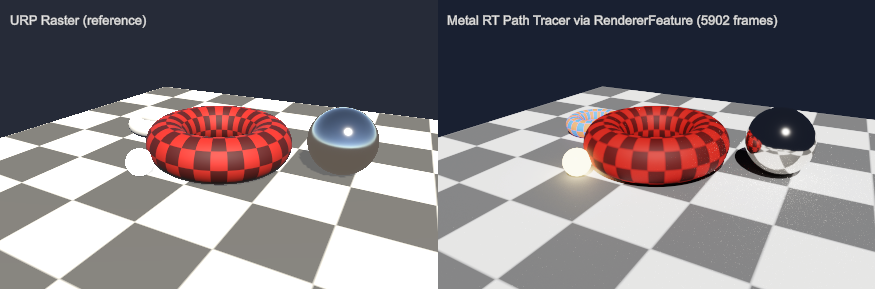
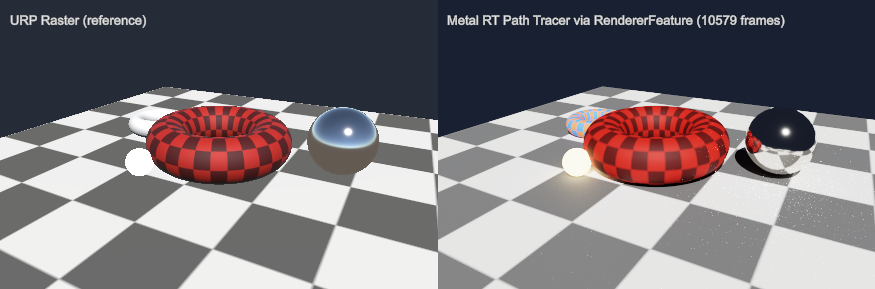
Add a-trous denoiser for early accumulation
The resolve stage now demodulates the accumulated mean by the
primary-hit albedo, runs an edge-avoiding a-trous wavelet filter
(3 iterations, guided by primary-hit albedo and normal from a new
G-buffer written at bounce 0) while fewer than 64 frames have
accumulated, and remodulates on output. Converged frames and the
analytic linear-output test modes bypass the filter, so all T1-T9
checks are unaffected while early interactive frames render nearly
noise-free.

diff --git a/NativePlugin/MetalRTPlugin.mm b/NativePlugin/MetalRTPlugin.mm
@@ -49,6 +49,8 @@ id<MTLComputePipelineState> s_IntersectPipeline;
 id<MTLComputePipelineState> s_GeomPrepPipeline;
 id<MTLComputePipelineState> s_ShadePipeline;
 id<MTLComputePipelineState> s_ResolvePipeline;
+id<MTLComputePipelineState> s_AtrousPipeline;
+id<MTLComputePipelineState> s_OutputPipeline;
 id<MTLComputePipelineState> s_ProbePipeline;
 
 struct MeshEntry
@@ -77,7 +79,14 @@ id<MTLBuffer> s_SharedSurfaces;
 // Native-only per-frame resources (render thread)
 id<MTLBuffer> s_PathBuffer;
 id<MTLBuffer> s_AccumBuffer;
+id<MTLBuffer> s_GBuffer;   // primary hit albedo + normal (denoiser guides)
+id<MTLBuffer> s_DenoiseA;  // irradiance ping-pong buffers
+id<MTLBuffer> s_DenoiseB;
 uint32_t s_BufferWidth, s_BufferHeight;
+uint32_t s_AccumFrames; // frames since the last accumulation reset
+
+constexpr uint32_t kDenoiseFrameLimit = 64; // stop filtering once converged
+constexpr int kDenoiseIterations = 3;
 
 // Per-frame state carried across the phase events of one frame
 // (render thread only).
@@ -758,6 +767,7 @@ kernel void Shade
    constant uint& bounce [[buffer(5)]],
    constant InstanceInfo* instances [[buffer(6)]],
    constant GpuMaterial* materials [[buffer(7)]],
+   device float4* gbuffer [[buffer(8)]],
    uint2 id [[thread_position_in_grid]])
 {
     if (id.x >= frame.cam.width || id.y >= frame.cam.height) return;
@@ -769,6 +779,11 @@ kernel void Shade
     HitAttributes attr = attributes[idx];
     if (attr.meta.y == 0)
     {
+        if (bounce == 0) // denoiser guides: environment pixel
+        {
+            gbuffer[idx * 2] = float4(1, 1, 1, 1);
+            gbuffer[idx * 2 + 1] = float4(0);
+        }
         path.radiance.xyz += path.throughput.xyz * frame.envColor.xyz;
         path.radiance.w = 0;
         paths[idx] = path;
@@ -779,16 +794,27 @@ kernel void Shade
     float3 position = attr.position.xyz;
 
     // Alpha clipped hit: pass through (continue the ray past the surface;
-    // this consumes one bounce iteration). Shadow rays still treat clipped
-    // geometry as opaque (documented limitation).
+    // this consumes one bounce iteration). Shadow rays evaluate the alpha
+    // of native Lit materials; compute-evaluated clipping stays opaque.
     if (surf.params.w >= 0 && surf.params.z < surf.params.w)
     {
+        if (bounce == 0)
+        {
+            gbuffer[idx * 2] = float4(1, 1, 1, 1);
+            gbuffer[idx * 2 + 1] = float4(0);
+        }
         path.origin.xyz = position + path.direction.xyz * kRayEpsilon;
         paths[idx] = path;
         return;
     }
 
     float3 normal = normalize(surf.normal.xyz);
+
+    if (bounce == 0) // denoiser guides: primary hit albedo and normal
+    {
+        gbuffer[idx * 2] = float4(surf.baseColor.xyz, 1);
+        gbuffer[idx * 2 + 1] = float4(normal, 0);
+    }
 
     uint rng = as_type<uint>(path.throughput.w);
     float3 wo = -path.direction.xyz;
@@ -873,11 +899,14 @@ static float3 TonemapAces(float3 x)
     return saturate(x * (2.51 * x + 0.03) / (x * (2.43 * x + 0.59) + 0.14));
 }
 
+// Accumulates the frame and writes the albedo-demodulated irradiance mean
+// (the denoiser filters irradiance so texture detail is preserved).
 kernel void Resolve
   (device const PathState* paths [[buffer(0)]],
    device float4* accum [[buffer(1)]],
    constant FrameConstants& frame [[buffer(2)]],
-   texture2d<float, access::write> output [[texture(0)]],
+   device const float4* gbuffer [[buffer(3)]],
+   device float4* irradiance [[buffer(4)]],
    uint2 id [[thread_position_in_grid]])
 {
     if (id.x >= frame.cam.width || id.y >= frame.cam.height) return;
@@ -888,8 +917,72 @@ kernel void Resolve
     acc.w += 1;
     accum[idx] = acc;
 
+    float3 mean = acc.xyz / acc.w;
+    float3 albedo = max(gbuffer[idx * 2].xyz, 0.05);
+    irradiance[idx] = float4(mean / albedo, 1);
+}
+
+// Edge-avoiding a-trous wavelet filter step over the irradiance buffer,
+// guided by the primary hit albedo and normal.
+kernel void Atrous
+  (device const float4* source [[buffer(0)]],
+   device float4* destination [[buffer(1)]],
+   device const float4* gbuffer [[buffer(2)]],
+   constant FrameConstants& frame [[buffer(3)]],
+   constant uint& step [[buffer(4)]],
+   uint2 id [[thread_position_in_grid]])
+{
+    uint w = frame.cam.width, h = frame.cam.height;
+    if (id.x >= w || id.y >= h) return;
+    uint idx = id.y * w + id.x;
+
+    constexpr float taps[5] = { 1.0 / 16, 1.0 / 4, 3.0 / 8, 1.0 / 4,
+                                1.0 / 16 };
+
+    float3 albedo = gbuffer[idx * 2].xyz;
+    float3 normal = gbuffer[idx * 2 + 1].xyz;
+    float3 center = source[idx].xyz;
+
+    float3 sum = 0;
+    float weightSum = 0;
+    for (int dy = -2; dy <= 2; dy++)
+    for (int dx = -2; dx <= 2; dx++)
+    {
+        int2 q = clamp(int2(id) + int2(dx, dy) * (int)step,
+                       int2(0), int2(w - 1, h - 1));
+        uint qi = q.y * w + q.x;
+        float weight = taps[dx + 2] * taps[dy + 2];
+        if (dx != 0 || dy != 0)
+        {
+            float3 qn = gbuffer[qi * 2 + 1].xyz;
+            float3 da = gbuffer[qi * 2].xyz - albedo;
+            float3 dc = source[qi].xyz - center;
+            weight *= pow(max(dot(normal, qn), 0.0), 32.0);
+            weight *= exp(-dot(da, da) / 0.02);
+            weight *= exp(-dot(dc, dc) / 0.25);
+        }
+        sum += source[qi].xyz * weight;
+        weightSum += weight;
+    }
+    destination[idx] = float4(sum / max(weightSum, 1e-6), 1);
+}
+
+// Remodulates the (possibly filtered) irradiance with the albedo and
+// writes the display value into the output texture.
+kernel void Output
+  (device const float4* irradiance [[buffer(0)]],
+   device const float4* gbuffer [[buffer(1)]],
+   constant FrameConstants& frame [[buffer(2)]],
+   texture2d<float, access::write> output [[texture(0)]],
+   uint2 id [[thread_position_in_grid]])
+{
+    if (id.x >= frame.cam.width || id.y >= frame.cam.height) return;
+    uint idx = id.y * frame.cam.width + id.x;
+
+    float3 albedo = max(gbuffer[idx * 2].xyz, 0.05);
+    float3 color = irradiance[idx].xyz * albedo;
+
     // Output stays linear; Unity's sRGB conversion happens at display time.
-    float3 color = acc.xyz / acc.w;
     if (frame.linearOutput == 0)
         color = TonemapAces(color * frame.exposure);
     output.write(float4(color, 1), id);
@@ -993,10 +1086,13 @@ bool EnsurePipelines()
     s_GeomPrepPipeline = CreatePipeline(library, @"GeomPrep");
     s_ShadePipeline = CreatePipeline(library, @"Shade");
     s_ResolvePipeline = CreatePipeline(library, @"Resolve");
+    s_AtrousPipeline = CreatePipeline(library, @"Atrous");
+    s_OutputPipeline = CreatePipeline(library, @"Output");
     s_ProbePipeline = CreatePipeline(library, @"TraceProbes");
     return s_ClearPipeline != nil && s_RayGenPipeline != nil &&
            s_IntersectPipeline != nil && s_GeomPrepPipeline != nil &&
            s_ShadePipeline != nil && s_ResolvePipeline != nil &&
+           s_AtrousPipeline != nil && s_OutputPipeline != nil &&
            s_ProbePipeline != nil;
 }
 
@@ -1128,6 +1224,12 @@ void EnsurePathBuffers(uint32_t width, uint32_t height)
                                          options:MTLResourceStorageModePrivate];
     s_AccumBuffer = [s_Device newBufferWithLength:pixels * 16
                                           options:MTLResourceStorageModePrivate];
+    s_GBuffer = [s_Device newBufferWithLength:pixels * 32
+                                      options:MTLResourceStorageModePrivate];
+    s_DenoiseA = [s_Device newBufferWithLength:pixels * 16
+                                       options:MTLResourceStorageModePrivate];
+    s_DenoiseB = [s_Device newBufferWithLength:pixels * 16
+                                       options:MTLResourceStorageModePrivate];
     s_BufferWidth = width;
     s_BufferHeight = height;
 }
@@ -1225,6 +1327,7 @@ void UNITY_INTERFACE_API OnRenderEvent(int eventId, void* data)
 
         if (ev->reset != 0 || resized)
         {
+            s_AccumFrames = 0;
             [enc setComputePipelineState:s_ClearPipeline];
             [enc setBuffer:s_AccumBuffer offset:0 atIndex:0];
             [enc setBytes:&s_Frame length:sizeof(s_Frame) atIndex:1];
@@ -1291,6 +1394,7 @@ void UNITY_INTERFACE_API OnRenderEvent(int eventId, void* data)
         [enc setBytes:&bounce length:sizeof(bounce) atIndex:5];
         [enc setBuffer:s_FrameInfo offset:0 atIndex:6];
         [enc setBuffer:s_MaterialBuffer offset:0 atIndex:7];
+        [enc setBuffer:s_GBuffer offset:0 atIndex:8];
         [enc dispatchThreads:grid threadsPerThreadgroup:group];
         [enc endEncoding];
         [command commit];
@@ -1307,11 +1411,41 @@ void UNITY_INTERFACE_API OnRenderEvent(int eventId, void* data)
         [enc setBuffer:s_PathBuffer offset:0 atIndex:0];
         [enc setBuffer:s_AccumBuffer offset:0 atIndex:1];
         [enc setBytes:&s_Frame length:sizeof(s_Frame) atIndex:2];
+        [enc setBuffer:s_GBuffer offset:0 atIndex:3];
+        [enc setBuffer:s_DenoiseA offset:0 atIndex:4];
+        [enc dispatchThreads:grid threadsPerThreadgroup:group];
+        barrier(enc);
+
+        // Edge-avoiding a-trous denoising during early accumulation only;
+        // analytic (linear output) modes and converged frames pass through.
+        int iterations = (s_Frame.linearOutput == 0 &&
+                          s_AccumFrames < kDenoiseFrameLimit) ?
+          kDenoiseIterations : 0;
+        id<MTLBuffer> src = s_DenoiseA, dst = s_DenoiseB;
+        for (int i = 0; i < iterations; i++)
+        {
+            uint32_t step = 1u << i;
+            [enc setComputePipelineState:s_AtrousPipeline];
+            [enc setBuffer:src offset:0 atIndex:0];
+            [enc setBuffer:dst offset:0 atIndex:1];
+            [enc setBuffer:s_GBuffer offset:0 atIndex:2];
+            [enc setBytes:&s_Frame length:sizeof(s_Frame) atIndex:3];
+            [enc setBytes:&step length:sizeof(step) atIndex:4];
+            [enc dispatchThreads:grid threadsPerThreadgroup:group];
+            barrier(enc);
+            auto tmp = src; src = dst; dst = tmp;
+        }
+
+        [enc setComputePipelineState:s_OutputPipeline];
+        [enc setBuffer:src offset:0 atIndex:0];
+        [enc setBuffer:s_GBuffer offset:0 atIndex:1];
+        [enc setBytes:&s_Frame length:sizeof(s_Frame) atIndex:2];
         [enc setTexture:s_FrameTexture atIndex:0];
         [enc dispatchThreads:grid threadsPerThreadgroup:group];
         [enc endEncoding];
         [command commit];
 
+        s_AccumFrames++;
         s_EventFrames.fetch_add(1, std::memory_order_relaxed);
     }
 }
@@ -1537,10 +1671,14 @@ void UNITY_INTERFACE_EXPORT UNITY_INTERFACE_API MetalRT_Dispose()
     s_SharedSurfaces = nil;
     s_PathBuffer = nil;
     s_AccumBuffer = nil;
+    s_GBuffer = nil;
+    s_DenoiseA = nil;
+    s_DenoiseB = nil;
     s_FrameTlas = nil;
     s_FrameInfo = nil;
     s_FrameTexture = nil;
     s_BufferWidth = s_BufferHeight = 0;
+    s_AccumFrames = 0;
     s_EventFrames.store(0, std::memory_order_relaxed);
 }
 

diff --git a/README.md b/README.md
@@ -60,9 +60,17 @@ project.
     materials**, overwriting surface records for their material indices.
   - **URP/Lit BSDF**: Lambert diffuse + GGX specular with the URP
     metallic/smoothness convention, cosine / GGX-NDF importance sampling
-    with lobe selection, and next event estimation for the directional
-    light via shadow rays (intensity premultiplied by pi to match Unity's
-    punctual light convention).
+    with lobe selection, and next event estimation over the scene's
+    punctual lights — directional, point, and spot with URP's attenuation
+    conventions (inverse square with smooth range window, squared
+    smoothstep spot falloff), intensity premultiplied by pi. Shadow rays
+    evaluate the base map alpha of alpha-clipped Lit materials (up to four
+    transparent layers), so cutout materials cast correct shadows.
+  - **Denoiser**: during early accumulation (< 64 frames) the resolve
+    stage runs an edge-avoiding a-trous wavelet filter over the
+    albedo-demodulated irradiance, guided by primary-hit albedo and normal,
+    then remodulates — texture detail stays sharp while GI noise smooths
+    out. Converged frames and the analytic test modes bypass the filter.
   - **Bindless resources** (Metal 3): mesh buffers are referenced by
     `gpuAddress` and material base maps by `gpuResourceID` from
     plain-buffer-resident tables, with explicit `useResource` residency.
@@ -95,15 +103,19 @@ project.
   the raw command buffer for `IssuePluginEventAndData` and the material
   dispatches, then the result is blitted onto the camera color target.
   Accumulation restarts automatically when the camera moves.
+- `Assets/Scripts/MetalRTSceneRegistry.cs` — Automatic scene registration:
+  scans the scene's MeshRenderers and registers BLASes for unique meshes,
+  the material table, per-frame instance descriptors, and generated Shader
+  Graph computes (resolved by naming convention, shader "X/Name" ->
+  Resources "NameGen") with a generic property/keyword binder.
 - `Assets/Scripts/PathTracerTest.cs` — The test harness. It builds a static
-  URP scene at runtime; the left camera rasterizes it normally while the
-  right camera uses the renderer with the path tracer feature. The floor
-  uses `Assets/Shaders/TestGraph.shadergraph` (a texture-mapped Lit graph)
+  URP scene at runtime (registration is automatic); the left camera
+  rasterizes it normally while the right camera uses the renderer with the
+  path tracer feature. The floor uses `Assets/Shaders/TestGraph.shadergraph`
   rasterized by URP on the left and evaluated by its generated compute
-  shader in the path tracer on the right. Material properties are bound to
-  the generated compute generically from the shader's property list. A
-  hand-written SurfaceDescription-style compute (`TestProcedural.compute`)
-  drives the small torus as a second material evaluator.
+  shader in the path tracer on the right. Hand-written
+  SurfaceDescription-style computes drive additional test materials
+  (procedural pattern, vertex color with a keyword variant, alpha cutout).
 - `Assets/Scripts/MetalRTPlugin.cs` — P/Invoke interop and the event data
   blob writer (a small ring of unmanaged blobs passes per-frame camera,
   lighting, and instance transforms to the render thread).
@@ -141,8 +153,15 @@ Analytic tests (logged as PASS/FAIL to the console on play):
 - **T6 alpha clipping**: a cutout quad clips half its checker cells via
   `Alpha` / `AlphaClipThreshold`; clipped cells must show the environment
   behind (**0.00 %**) and solid cells behave like a flat furnace surface
-  (**0.00 %**). Shadow rays treat clipped geometry as opaque (known
-  limitation).
+  (**0.00 %**).
+- **T7 keyword variants**: toggling a keyword on the material switches the
+  evaluated compute variant (**0.42 %**).
+- **T8 punctual lights**: point and spot lighting on a flat receiver match
+  URP's attenuation formulas analytically (**0.01 %** each).
+- **T9 alpha-tested shadows**: swapping `_Cutoff` around a half-alpha
+  occluder toggles a point light's shadow between fully transparent
+  (**0.04 %**) and fully opaque (**exact zero**). Clipping that exists only
+  in compute-evaluated materials still shadows as opaque (limitation).
 
 All of the above run through the URP renderer feature (RenderGraph unsafe
 pass), not a standalone dispatch path.
@@ -164,13 +183,14 @@ physically correct mirror reflections).
 Note: the macOS editor never unloads native plugins, so restart the editor
 after rebuilding the plugin.
 
-## Roadmap
+## Possible future work
 
-- **Keyword variants**: support Shader Graph keyword variants in the
-  generated compute shaders (multi_compile + per-material keyword binding).
-- **Scene integration**: register scene meshes/materials automatically
-  (renderer component scan) instead of the hand-built test scene, support
-  more lights (point/spot/area), and denoise the progressive output.
-- **Alpha-tested shadows**: shadow rays currently treat alpha-clipped
-  geometry as opaque; proper support needs material evaluation on the
-  occlusion path (e.g., Metal intersection function tables).
+The original roadmap (keyword variants, automatic scene registration,
+punctual lights, alpha-tested shadows, denoising) is complete. Natural next
+directions:
+
+- Transparency and refraction (transmission BSDF, non-opaque intersection)
+- Emissive mesh light sampling (NEE with MIS instead of BSDF-only)
+- Skinned/dynamic meshes (BLAS refit per frame)
+- Multiple UV channels beyond uv1, HDR environment maps
+- A higher-quality denoiser (temporal reprojection, or ML-based)